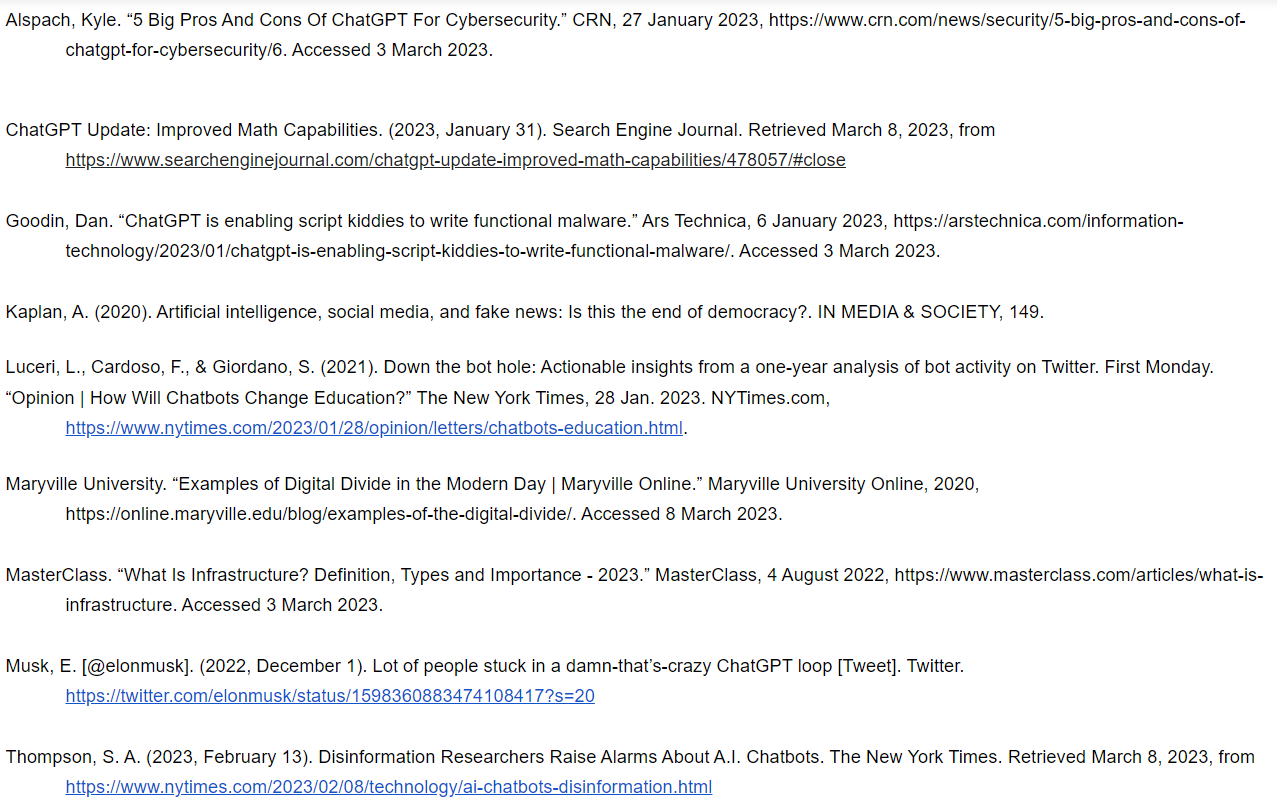
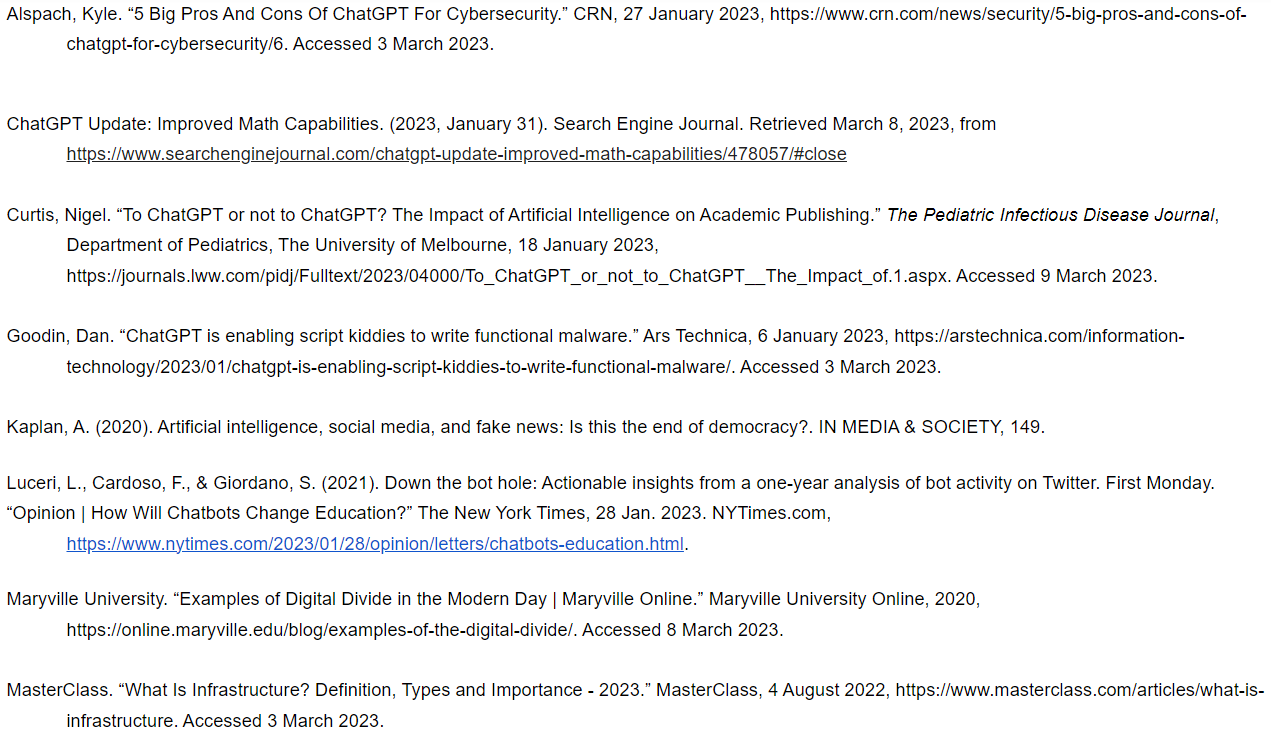
final edit

diff --git a/final-blog-post.html b/final-blog-post.html
@@ -67,9 +67,11 @@
       <p>Our website has many features: it starts with the definitions of misinformation and disinformation (MaD),
         covers 2 case studies regarding ChatGPT use and MaD, goes into ChatGPT usage in two infrastructures, and
         features a quiz to help solidy MaD differences and gauge what users think of ChatGPT.
+
       </p>
       <p>Ultimately, our goal is to educate users so they can react consciously and learn to fight against
-        mis/disinformation in AI as well as in the media, and ultimately help out the community.
+        mis/disinformation in AI as well as to start thinking about ChatGPT's impacts as it moves forward in our
+        society.
       </p>
     </section>
     <section class="blog_inspo">
@@ -94,8 +96,12 @@
       <p>Moreover, we aim to understand ChatGPT's impact on social infrastructure, especially in education and
         cybersecurity, as these are essential fields for students. As mentioned in our MaD case studies, ChatGPT has
         made many misinformation errors that can easily fool those who are not viewing its answers with a skeptical
-        lens, one of which is the Shaq and Yao Ming height comparison case (Luceri, Cardoso, and Giordano, 2021). It's
-        examples like these that make us worried for those that are not aware about MaD.
+        lens, one of which is the Shaq and Yao Ming height comparison case (Luceri, Cardoso, and Giordano, 2021). This
+        was an inspiring case study for us, as it is one of the clear ways that ChatGPT has shown misinformation that
+        can easily be debunked using common sense or other resources on the internet. By analyzing this example in our
+        case study, we wanted to help users realize that ChatGPT seems like it is sometimes still in its beta stages,
+        and there is plenty of room for improvement. It's examples like these that make us worried for those that are
+        not aware of MaD, and thus we wanted to make a website to help users gain skills to be conscientious online.
       </p>
       <p>With a better, more cautious understanding of ChatGPT's effects, we can work towards creating a more informed
         and educated society. In addition, Kaplan emphasizes the negative impact of misinformation and fake news on
@@ -127,6 +133,15 @@
         familiarizes them with MaD and gives philosophical questions related to whether they believe ChatGPT is good or
         bad. When it comes down to it, our goal is to get people thinking about ChatGPT and MaD, and what better way
         than to put them through a series of scenarios on our website that relate to their lives?
+      </p>
+      <p>Looking at Curtis's work from the University of Melbourne, he attempts to discuss the implications of ChatGPT
+        by himself in a scholarly article, however, we don't believe that this is very useful. Instead, our team opts to
+        bring people into the discussion by being their guide and presenting scenarios and questions, as we mentioned
+        before. It is one thing to look at another person's analysis. but it is another to be able to go through the
+        analysis yourself with a hands-on approach, such as our quiz or our case studies.
+      </p>
+      <p>The fact that we can influence people to question the things around them in order to come to better conclusions
+        is what drives us, along with the idea that we ourselves might be able to learn in the process.
       </p>
       <img src="img/musk.png" alt="An Elon Musk Tweet.">
     </section>

diff --git a/citations.html b/citations.html
@@ -51,7 +51,7 @@
   </header>
 
   <main>
-    <section class="citation" >
+    <section class="citation">
       <h2>MLA Citations</h2>
       <img src="img/citations1.PNG" alt="the first half of the list of citations.">
       <img src="img/citations2.PNG" alt="the second half of the list of citations.">
@@ -63,6 +63,12 @@
 
       <p>ChatGPT Update: Improved Math Capabilities. (2023, January 31). Search Engine Journal. Retrieved March 8, 2023,
         from https://www.searchenginejournal.com/chatgpt-update-improved-math-capabilities/478057/#close</p>
+
+      <p>Curtis, Nigel. “To ChatGPT or not to ChatGPT? The Impact of Artificial Intelligence on Academic Publishing.”
+        The Pediatric Infectious Disease Journal, Department of Pediatrics, The University of Melbourne, 18 January
+        2023, https://journals.lww.com/pidj/Fulltext/2023/04000/To_ChatGPT_or_not_to_ChatGPT__The_Impact_of.1.aspx.
+        Accessed 9 March 2023.
+      </p>
 
       <p>Goodin, Dan. “ChatGPT is enabling script kiddies to write functional malware.” Ars Technica, 6 January 2023,
         https://arstechnica.com/information-technology/2023/01/chatgpt-is-enabling-script-kiddies-to-write-functional-malware/.
